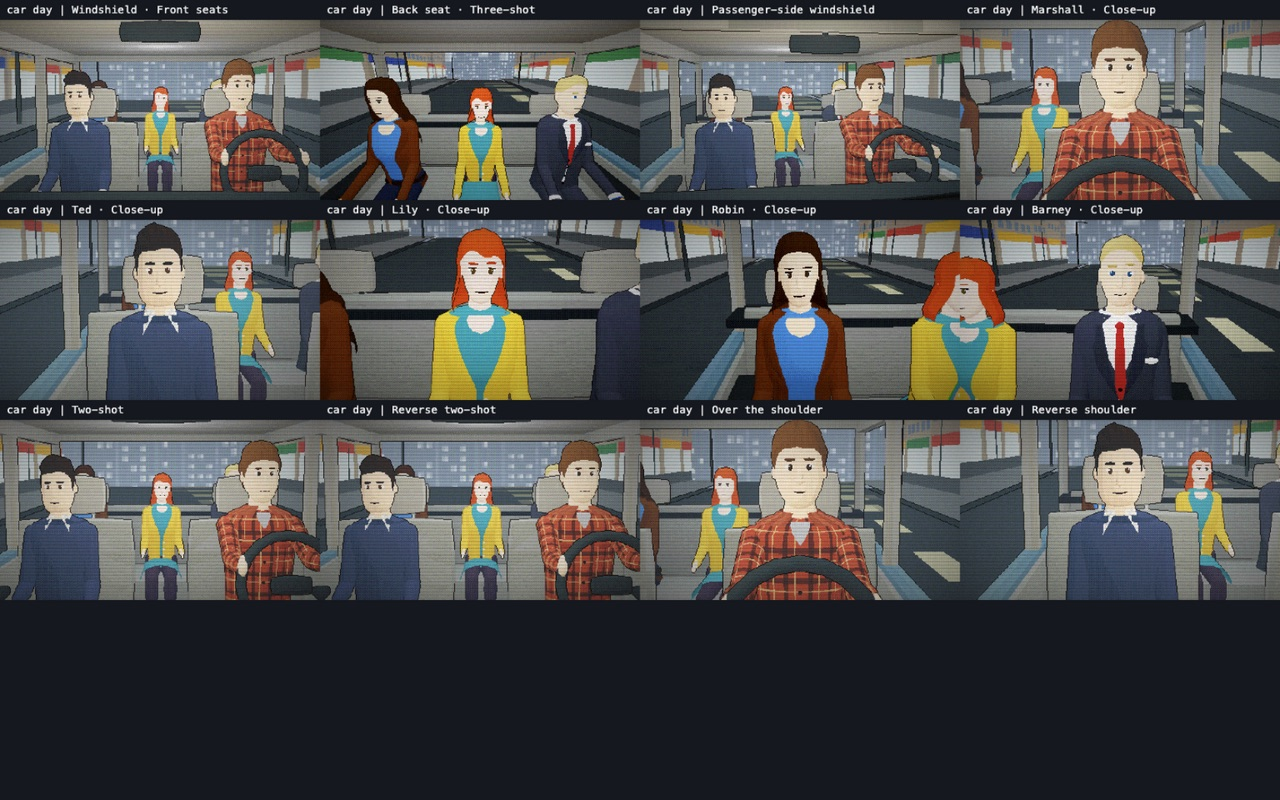
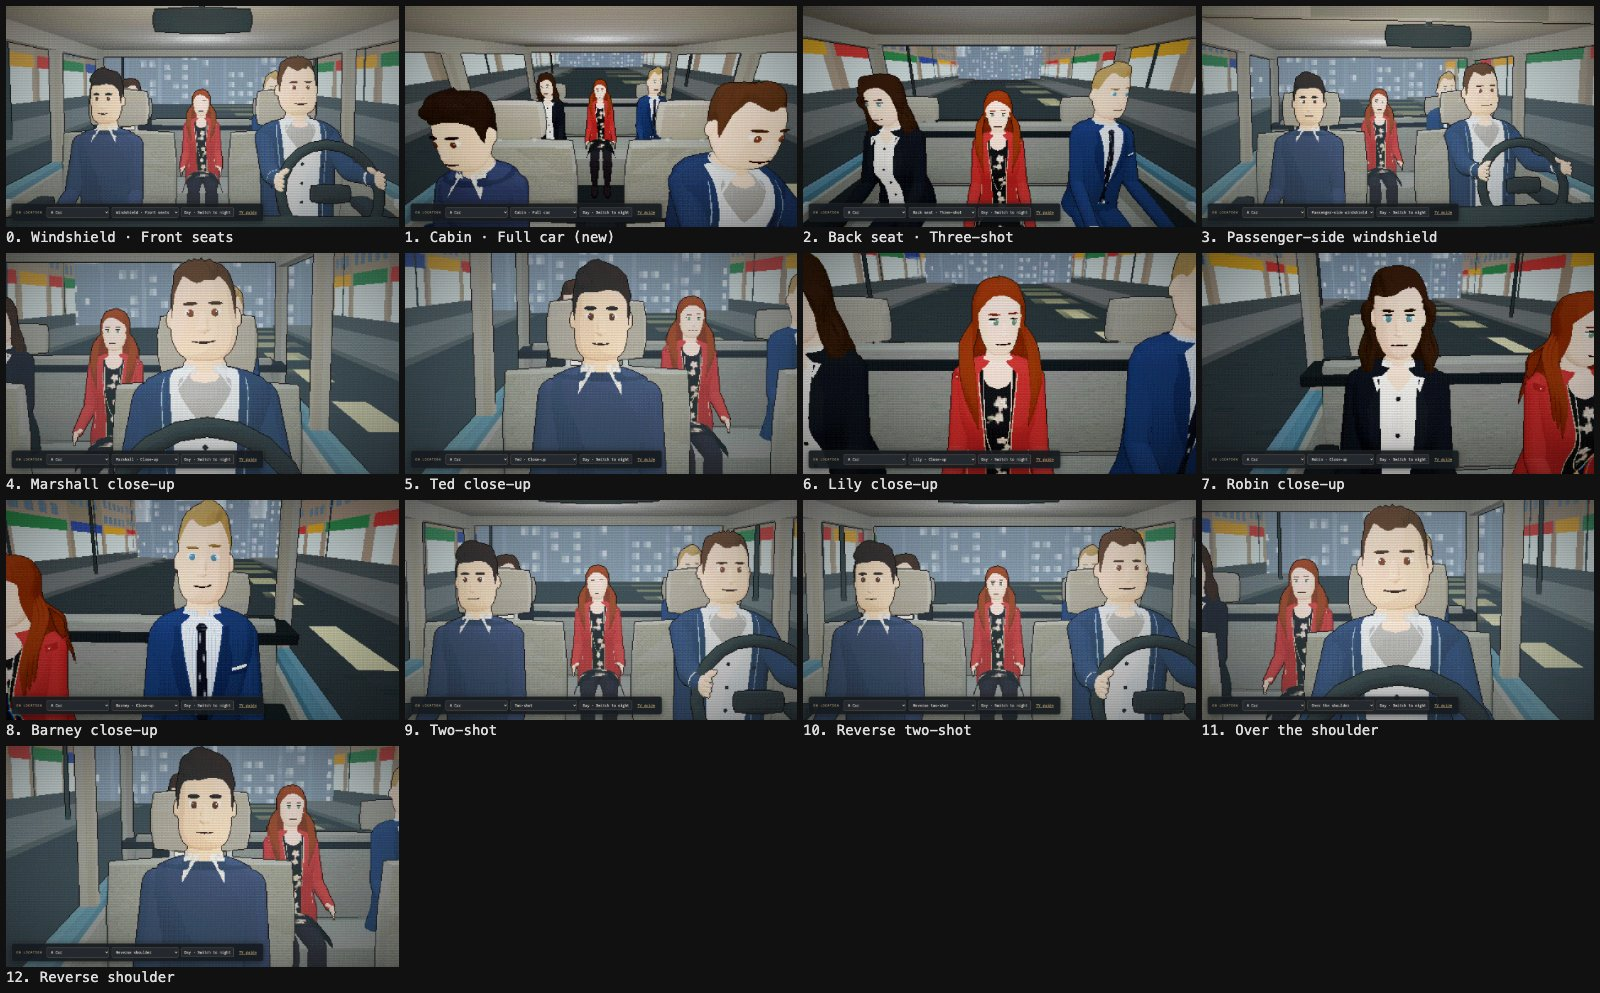
Add a full-car wide shot for rear-seat coverage
- Add a roof-mounted cabin angle that captures the front passenger and all three rear seats
- Update car coverage guidance and angle references

diff --git a/tests/staging.test.ts b/tests/staging.test.ts
@@ -294,10 +294,11 @@ describe('camera coverage on the current sets', () => {
     expectVisible(actor, 'woven chair reverse');
   });
 
-  test('group wides cover both the professor and students, and the whole limo bench', () => {
+  test('group wides cover both the professor and students, the whole limo bench and a full car', () => {
     for (const [location, cast] of [
       ['lecture_hall', [['ted', 'lectern'], ['robin', 'student_1_4'], ['barney', 'student_2_3'], ['marshall', 'student_3_5']]],
       ['limo', [['ted', 'rear_seat_left'], ['robin', 'rear_seat_right'], ['marshall', 'bench_1'], ['lily', 'bench_2'], ['barney', 'bench_3']]],
+      ['car', [['marshall', 'driver'], ['ted', 'front_passenger'], ['robin', 'back_left'], ['lily', 'back_middle'], ['barney', 'back_right']]],
     ] as const) {
       stage.setLocation(location, 'day');
       for (const [id, mark] of cast) stage.place(id, mark);

diff --git a/src/world/sets/car.ts b/src/world/sets/car.ts
@@ -102,6 +102,8 @@ export function buildCar(): StageSet {
     },
     wides: [
       { label: 'Windshield · Front seats', pos: v3(0, 1.3, 2.35), target: v3(0, 1.12, 0.15), fov: 30 },
+      // Roof rig behind the mirror, looking back: the only angle that clears the front row for both rear side seats.
+      { label: 'Cabin · Full car', pos: v3(0, 1.5, 0.65), target: v3(0, 1.06, -0.55), fov: 68 },
       { label: 'Back seat · Three-shot', pos: v3(0, 1.36, -0.38), target: v3(0, 1.1, -1.25), fov: 70 },
       { label: 'Passenger-side windshield', pos: v3(-0.3, 1.35, 2.5), target: v3(0, 1.12, 0.1), fov: 30 },
     ],

diff --git a/docs/car-reference.md b/docs/car-reference.md
@@ -18,7 +18,9 @@ No roof sign, fare meter, partition, chauffeur, bar or stretch body belongs in t
 
 - Use fixed windshield/cabin mounts; do not orbit around seated actors as if they were in a room.
 - Keep front and rear rows independently coverable. Front-seat headrests naturally hide some rear
-  passengers in a windshield shot; give those passengers their own rear-cabin angle.
+  passengers in a windshield shot; give those passengers their own rear-cabin angle. For a full sedan,
+  a roof mount behind the mirror looks back over the console and holds the front passenger and all
+  three rear seats in one master.
 - Match singles across the seating axis. A requested shoulder shot uses the matching single rather
   than putting a camera through a door or headrest. Driver/passenger-compartment exchanges cut
   between their respective mounts.
